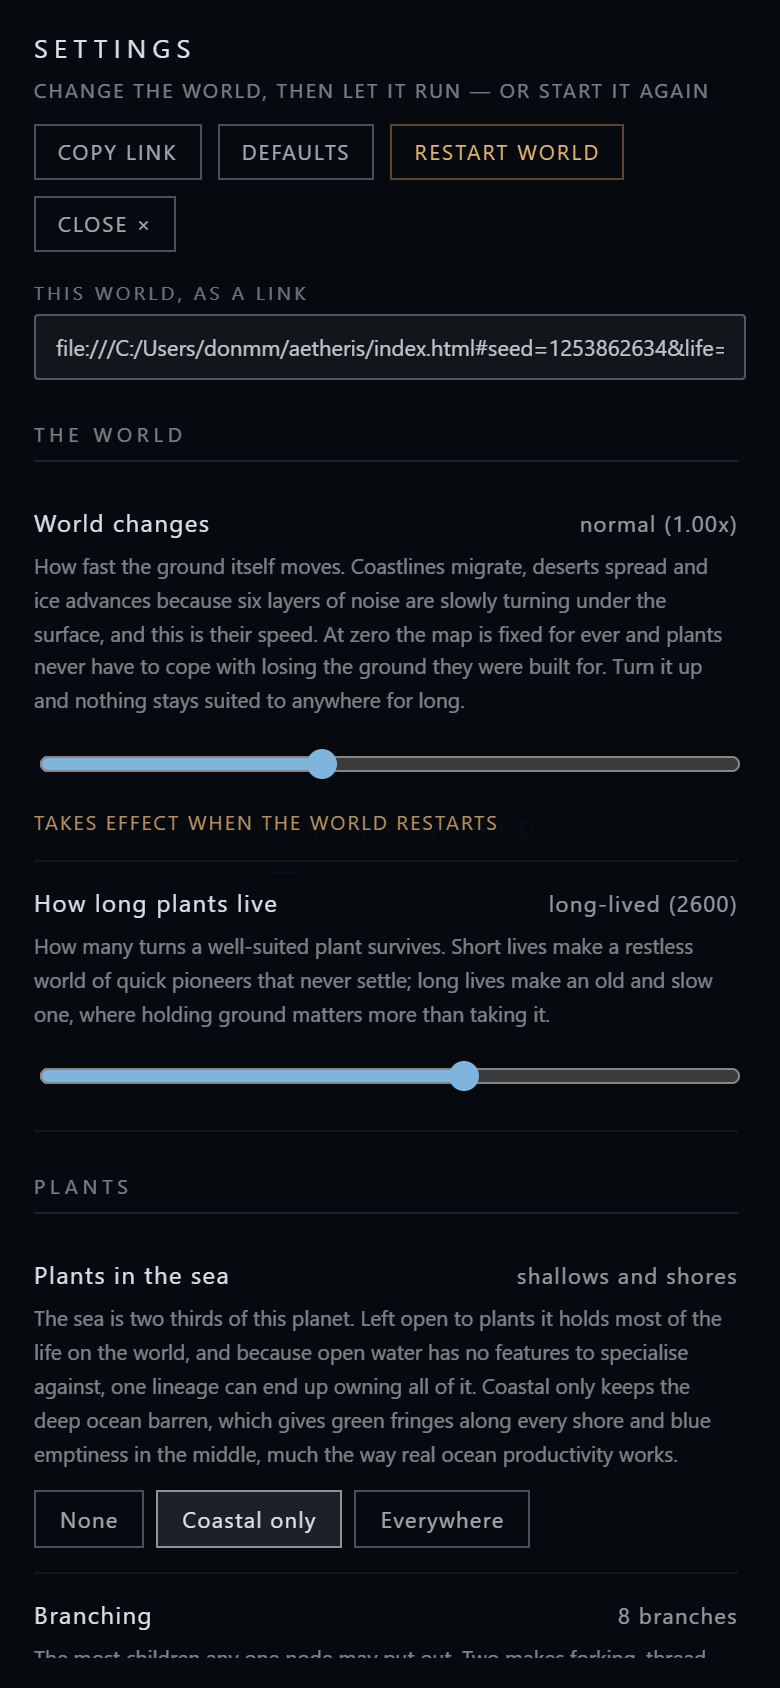
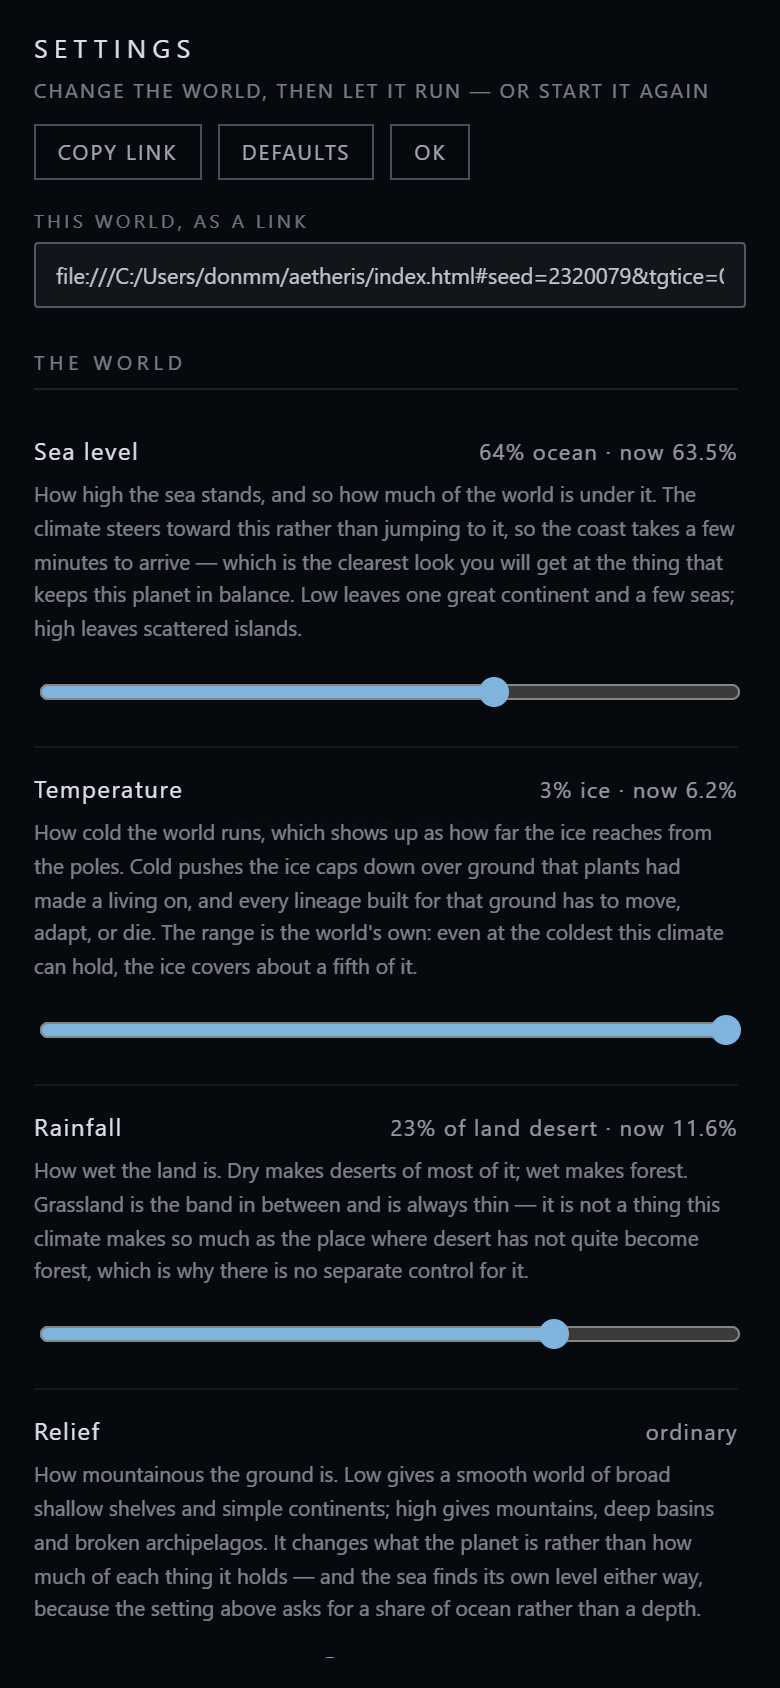
Physical controls instead of terrain percentages
Don asked whether percentage sliders were simply the wrong controls, and the
reachability measurements say yes. Five percentages promise five independent
quantities when the world has three degrees of freedom, and two of the five
cannot be delivered: ice is reachable only between 3.4 and 19.4 per cent
across the whole temperature clamp, and grass never exceeds about 7 per cent
at all -- grass is not a thing this climate makes, it is the transition band
between desert and forest, and humidity slides the vegetation field across
it. Sliders that silently refuse to go where they are put are worse than no
sliders.

The controller's three targets already WERE physical quantities wearing
percentage clothes: a share of ocean is a sea level, a share of ice is a
temperature, a share of dry land is a rainfall. Naming them honestly is not a
relabelling, and every position is reachable by construction because the
controller was built to reach exactly these. It also deletes the risky half
of the plan -- no fourth integrator, no four-way coupling, no stability
re-check at x100.

Relief is Don's, and it is the one none of the percentages could have given:
the amplitude of the six octaves, smooth shelves and simple continents at one
end, mountains and broken archipelagos at the other. The sea finds its own
level either way, because the control above asks for a SHARE of ocean.

Two sliders run backwards against what they steer -- colder is more ice,
[…]

Changed region(s): [[0.0308, 0.1232, 0.9538, 0.9858], [0.5231, 0.0616, 0.6462, 0.0924], [0.6769, 0.0616, 0.7385, 0.0924]]

diff --git a/index.html b/index.html
@@ -308,8 +308,9 @@
     <div class="setbtns">
       <button id="setcopy" type="button">copy link</button>
       <button id="setreset" type="button">defaults</button>
+      <button id="setcancel" type="button">cancel</button>
       <button id="setrestart" type="button">restart world</button>
-      <button id="setclose" type="button" aria-label="close">close &times;</button>
+      <button id="setclose" type="button">ok</button>
     </div>
   </div>
   <div id="setshare">
@@ -729,6 +730,25 @@ const PARAMS = {
                     // thriving dense mat still adds nodes, a stuck fragment
                     // does not -- and is what to build before concluding that
                     // culling on efficiency cannot work.
+  tgtocean: 0.635,  // how much of the world the controller steers the sea to
+                    // cover. Measured reachable across 0 to 0.96, so the whole
+                    // slider is honest; the response is strongly non-linear in
+                    // sea level, which is why this is a target the controller
+                    // chases rather than a dial it sets.
+  tgtice:  0.090,   // and how much ice. Reachable only between about 0.034 and
+                    // 0.194 across the entire temperature clamp — the range is
+                    // the world's, not a choice, and the slider is bounded to
+                    // it rather than promising a share the physics refuses.
+  tgtdesert: 0.225, // and how much of the LAND is desert, as a share of land so
+                    // the target does not drift when sea level moves the
+                    // coastline. Desert and forest trade freely across it.
+                    // Grass is whatever lies between them and never exceeds
+                    // about 7 per cent of the world, because grass is not a
+                    // thing this climate makes — it is the transition band,
+                    // and humidity slides the whole vegetation field across it.
+                    // That is why there is no grass slider.
+  relief:  1.00,    // how mountainous the terrain is, as a multiplier on the
+                    // six octave amplitudes. Read once at startup.
   churn:   1.00,    // how fast the terrain itself moves. One multiplier on
                     // every drift the six noise octaves do — their turning and
                     // their breathing — plus the ridge and the temperature and
@@ -885,7 +905,12 @@ for(let j=0;j<GH;j++){
        breathes in amplitude.  that is what makes coastlines migrate. ----- */
 const OCT = 6;
 const oFreq = [1.25, 2.35, 4.4, 8.3, 15.5, 29.0];
-const oAmp  = [0.60, 0.30, 0.16, 0.085, 0.045, 0.024];
+/* scaled by `relief`: low gives a smooth world of broad shallow shelves and
+   simple continents, high gives mountains, deep basins and archipelagos. It
+   changes what the planet IS rather than how much of each thing it holds, and
+   the controller absorbs the consequences for free — it targets a SHARE of
+   ocean, so it simply finds a different sea level for the same coastline. */
+const oAmp  = [0.60, 0.30, 0.16, 0.085, 0.045, 0.024].map(a=>a*PARAMS.relief);
 const oAxis = [], oSpin = [], oBreathA = [], oBreathW = [], oBreathP = [];
 (function(){
   let s=(SEED*2654435761)>>>0 || 7;
@@ -918,7 +943,14 @@ const S = {
   solarLat: 0.0,
   stats: {ocean:0.6, ice:0.08, desert:0.2, forest:0.2, grass:0.1, temp:14}
 };
-const TARGET = {ocean:0.635, ice:0.090, desertOfLand:0.225};
+/* The controller's three targets are parameters now, because they are the
+   world's actual degrees of freedom wearing percentage clothes. Steering
+   toward a share of ocean IS a sea level; steering toward a share of ice IS a
+   temperature; steering toward a share of dry land IS a rainfall. Naming them
+   physically is not a relabelling — it is the honest name for the mechanism
+   that was already there, and unlike a set of five percentage sliders every
+   position is reachable by construction, because the controller was built to
+   reach exactly these. */
 let climateHeld = false;   // test hook: pin the dials and see where the world settles
 const YEAR = 900;           // simulated seconds per orbit
 const TILT = 24*Math.PI/180;
@@ -1129,9 +1161,9 @@ function stepFields(dt){
     /* corrections are rate-limited so the loop stays stable no matter how
        large a time step the time-lapse hands it */
     if(!climateHeld){
-      const dSea = clamp((TARGET.ocean - ocean)*0.055*d, -0.020, 0.020);
-      const dT   = clamp((ice - TARGET.ice)*0.55*d,      -0.30,  0.30);
-      const dH   = clamp((desertOfLand - TARGET.desertOfLand)*0.040*d, -0.012, 0.012);
+      const dSea = clamp((PARAMS.tgtocean - ocean)*0.055*d, -0.020, 0.020);
+      const dT   = clamp((ice - PARAMS.tgtice)*0.55*d,      -0.30,  0.30);
+      const dH   = clamp((desertOfLand - PARAMS.tgtdesert)*0.040*d, -0.012, 0.012);
       S.seaLevel   = clamp(S.seaLevel   + dSea, -0.50, 0.50);
       S.globalTemp = clamp(S.globalTemp + dT,   -14, 14);
       S.globalHum  = clamp(S.globalHum  + dH,   -0.56, 0.52);
@@ -5016,9 +5048,9 @@ function seedWorld(){
     if(n>110){
       const st=S.stats;
       const dOfL = st.desert/Math.max(1e-6, st.land);
-      const ok = Math.abs(st.ocean-TARGET.ocean) < 0.020 &&
-                 Math.abs(st.ice  -TARGET.ice)   < 0.030 &&
-                 Math.abs(dOfL-TARGET.desertOfLand) < 0.105;
+      const ok = Math.abs(st.ocean-PARAMS.tgtocean) < 0.020 &&
+                 Math.abs(st.ice  -PARAMS.tgtice)   < 0.030 &&
+                 Math.abs(dOfL-PARAMS.tgtdesert) < 0.105;
       if(ok){ if(++settled > 18) break; } else settled = 0;
     }
   }
@@ -5536,6 +5568,18 @@ function setCharts(on){
    listener fires on every drag of a slider. */
 const SETTINGS = [
  {group:"The world"},
+ {key:"tgtocean", name:"Sea level", min:0.15, max:0.90, step:0.01,
+  why:"How high the sea stands, and so how much of the world is under it. The climate steers toward this rather than jumping to it, so the coast takes a few minutes to arrive — which is the clearest look you will get at the thing that keeps this planet in balance. Low leaves one great continent and a few seas; high leaves scattered islands.",
+  fmt:v=>Math.round(v*100)+"% ocean"+nowPct("ocean")},
+ {key:"tgtice", name:"Temperature", min:0.034, max:0.194, step:0.002, rev:true,
+  why:"How cold the world runs, which shows up as how far the ice reaches from the poles. Cold pushes the ice caps down over ground that plants had made a living on, and every lineage built for that ground has to move, adapt, or die. The range is the world's own: even at the coldest this climate can hold, the ice covers about a fifth of it.",
+  fmt:v=>Math.round(v*100)+"% ice"+nowPct("ice")},
+ {key:"tgtdesert", name:"Rainfall", min:0.02, max:0.80, step:0.01, rev:true,
+  why:"How wet the land is. Dry makes deserts of most of it; wet makes forest. Grassland is the band in between and is always thin — it is not a thing this climate makes so much as the place where desert has not quite become forest, which is why there is no separate control for it.",
+  fmt:v=>Math.round(v*100)+"% of land desert"+nowPct("desert")},
+ {key:"relief", name:"Relief", min:0.3, max:2.0, step:0.05, restart:true,
+  why:"How mountainous the ground is. Low gives a smooth world of broad shallow shelves and simple continents; high gives mountains, deep basins and broken archipelagos. It changes what the planet is rather than how much of each thing it holds — and the sea finds its own level either way, because the setting above asks for a share of ocean rather than a depth.",
+  fmt:v=>v<0.7?"smooth":v<1.3?"ordinary":v<1.7?"mountainous":"broken"},
  {key:"churn", name:"World changes", min:0, max:2.5, step:0.05, restart:true,
   why:"How fast the ground itself moves. Coastlines migrate, deserts spread and ice advances because six layers of noise are slowly turning under the surface, and this is their speed. At zero the map is fixed for ever and plants never have to cope with losing the ground they were built for. Turn it up and nothing stays suited to anywhere for long.",
   fmt:v=>v===0?"fixed for ever":(v<1?"slow":v===1?"normal":"restless")+" ("+v.toFixed(2)+"x)"},
@@ -5588,9 +5632,29 @@ const SETTINGS = [
   fmt:v=>v===0?"none":v.toFixed(2)},
 ];
 
+/* what the world actually is, beside what has been asked of it — the gap is
+   the controller still on its way there, and is worth seeing */
+function nowPct(k){
+  const v=S.stats && S.stats[k];
+  return v===undefined ? "" : "  ·  now "+(100*v).toFixed(1)+"%";
+}
 const setEl = document.getElementById("settings");
 const setList = document.getElementById("setlist");
 const DEFAULTS = Object.assign({}, PARAMS);
+/* What the world was when the panel opened, so cancelling can put it back.
+   Once a restart-only setting has been touched there is no way to apply it to
+   the running world, so the only honest choices are to restart or to drop the
+   changes — and offering an OK that silently did neither would be a lie. */
+let setSnap = null, pendingRestart = false;
+function updateBtns(){
+  const show=(id,on)=>{ document.getElementById(id).style.display = on?"":"none"; };
+  show("setcopy",   !pendingRestart);
+  show("setreset",  !pendingRestart);
+  show("setclose",  !pendingRestart);
+  show("setcancel",  pendingRestart);
+  show("setrestart", pendingRestart);
+}
+function markRestart(){ if(!pendingRestart){ pendingRestart=true; updateBtns(); } }
 
 const setLink = document.getElementById("setlink");
 function writeHash(){
@@ -5653,10 +5717,17 @@ function buildSettings(){
       box.appendChild(a); box.appendChild(b); row.appendChild(box); show();
     } else {
       const r=document.createElement("input");
-      r.type="range"; r.min=item.min; r.max=item.max; r.step=item.step; r.value=PARAMS[item.key];
+      r.type="range"; r.min=item.min; r.max=item.max; r.step=item.step;
+      /* Some of these run backwards against the quantity they steer: colder
+         means MORE ice, drier means MORE desert. The slider reads left to
+         right as the physical thing — cold to hot, dry to wet — and the value
+         is mirrored, so the control matches the label rather than the
+         implementation. */
+      const toUI = v => item.rev ? (item.min+item.max-v) : v;
+      r.value = toUI(PARAMS[item.key]);
       const show=()=>{ val.textContent=item.fmt?item.fmt(PARAMS[item.key]):PARAMS[item.key]; };
-      r.addEventListener("input",()=>{ PARAMS[item.key]=+r.value; show(); writeHash();
-        if(!item.restart) applyLive(); });
+      r.addEventListener("input",()=>{ PARAMS[item.key]=toUI(+r.value); show(); writeHash();
+        if(item.restart) markRestart(); else applyLive(); });
       row.appendChild(r); show();
     }
     if(item.restart){
@@ -5670,7 +5741,8 @@ function setSettings(on){
   setEl.classList.toggle("on",on);
   document.getElementById("hud").classList.toggle("behind",on);
   setEl.setAttribute("aria-hidden",on?"false":"true");
-  if(on){ buildSettings(); writeHash(); }
+  if(on){ setSnap=Object.assign({},PARAMS); pendingRestart=false;
+          buildSettings(); updateBtns(); writeHash(); }
 }
 document.getElementById("gear").addEventListener("click",e=>{ e.stopPropagation(); setSettings(true); });
 document.getElementById("setcopy").addEventListener("click",async e=>{
@@ -5686,6 +5758,11 @@ document.getElementById("setcopy").addEventListener("click",async e=>{
   setTimeout(()=>{ btn.textContent=was; }, 1600);
 });
 document.getElementById("setclose").addEventListener("click",e=>{ e.stopPropagation(); setSettings(false); });
+document.getElementById("setcancel").addEventListener("click",e=>{
+  e.stopPropagation();
+  if(setSnap) Object.assign(PARAMS,setSnap);
+  pendingRestart=false; writeHash(); applyLive(); setSettings(false);
+});
 document.getElementById("setreset").addEventListener("click",e=>{
   e.stopPropagation(); Object.assign(PARAMS,DEFAULTS); writeHash(); buildSettings(); applyLive();
 });
